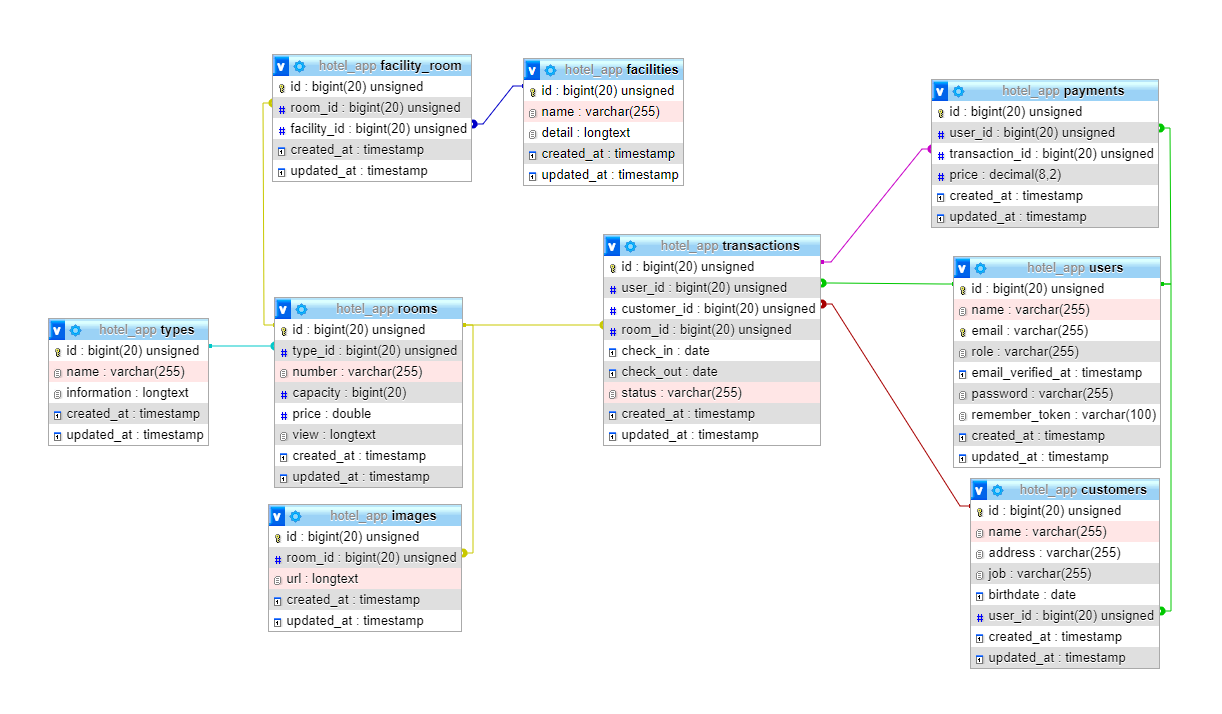
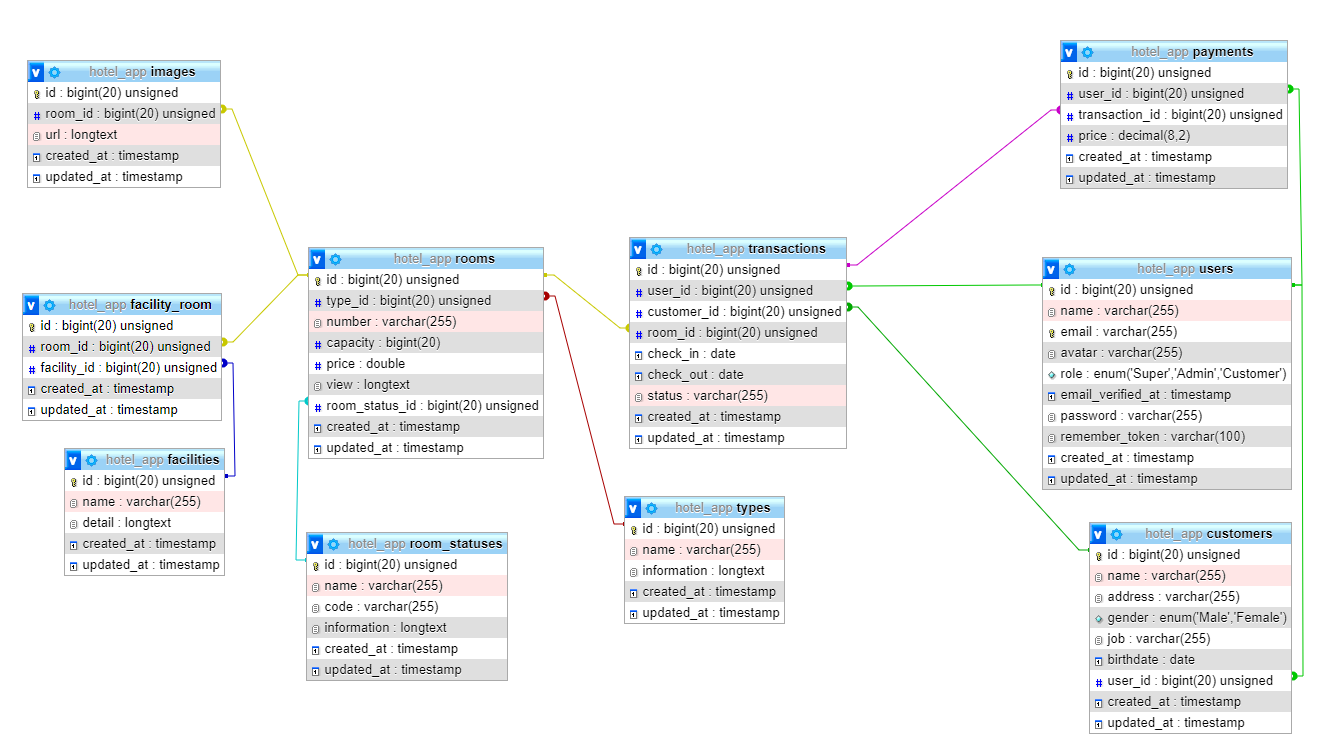
ganti gambar erd

diff --git a/README.md b/README.md
@@ -6,9 +6,6 @@
 ## Init Commands:
 - composer install
 - php artisan migrate:fresh --seed
-- php artisan db:seed --class=UserSeeder
-- php artisan db:seed --class=TypeSeeder
-- php artisan db:seed --class=RoomStatusSeeder
 - php artisan serv
 
 ## Login:
